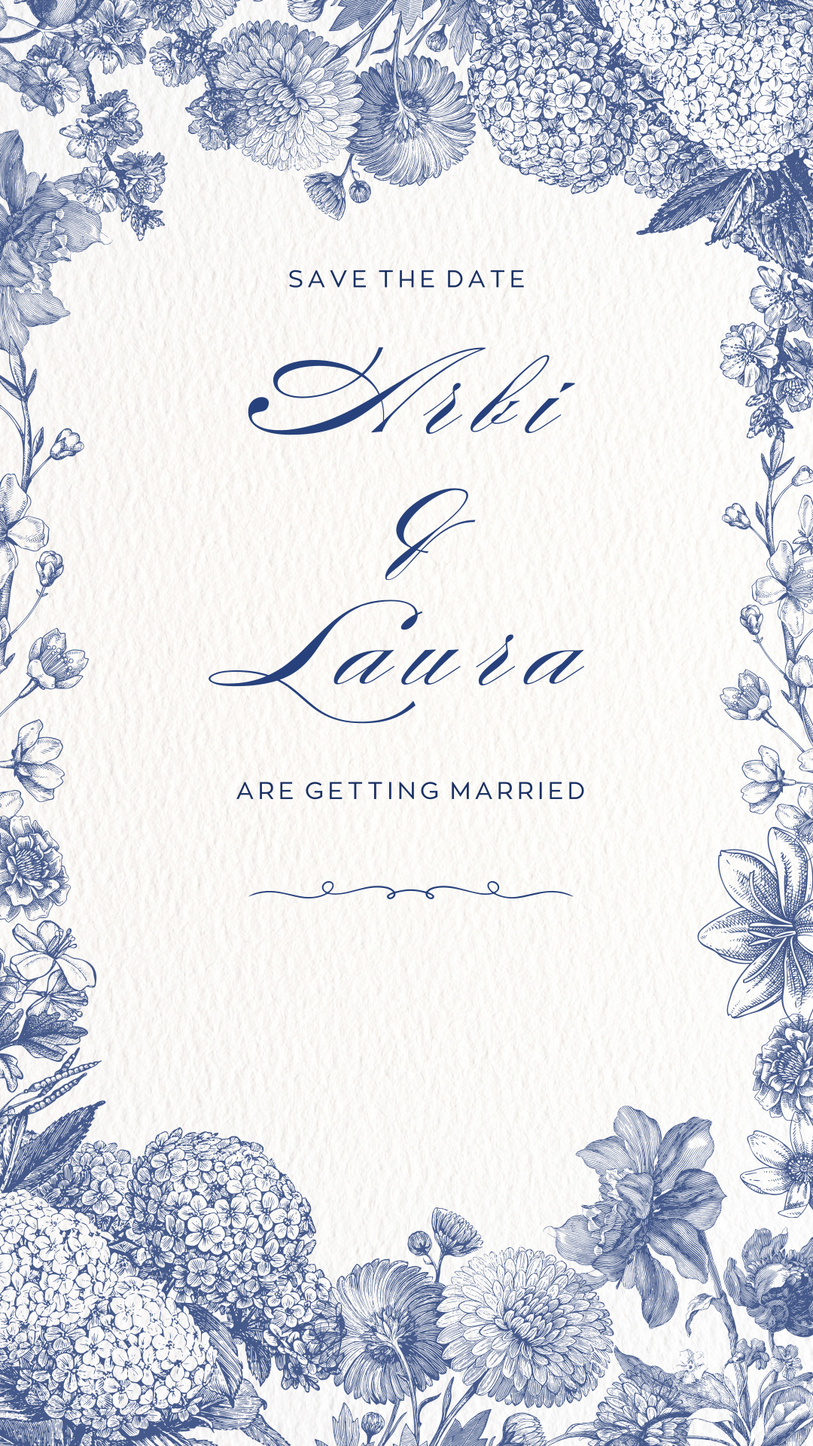
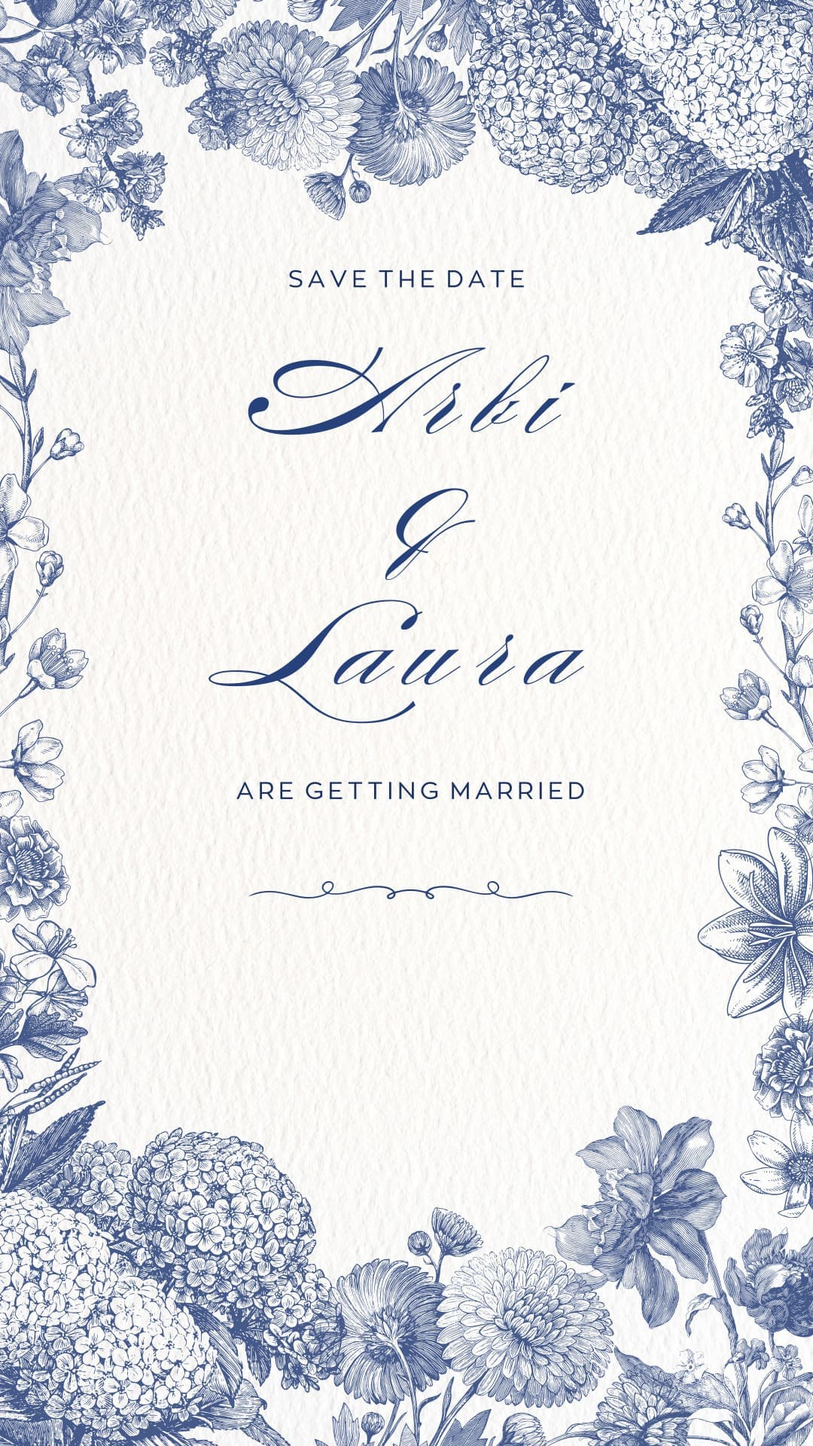
perf: Add image preloading and a loading spinner for the invitation card, update the card image, and remove the old preview.

diff --git a/src/pages/LandingPage.jsx b/src/pages/LandingPage.jsx
@@ -1,50 +1,75 @@
 // src/pages/LandingPage.jsx
 import config from '@/config/config';
 import { formatEventDate } from '@/lib/formatEventDate';
-import { motion } from 'framer-motion';
-import { Calendar, Clock, MailOpen } from 'lucide-react';
+import { useState, useEffect } from 'react';
+import { motion, AnimatePresence } from 'framer-motion';
+import { Calendar, Clock, MailOpen, Loader2 } from 'lucide-react';
 
-const LandingPage = ({ onOpenInvitation }) => (
-  <motion.div
-    initial={{ opacity: 0 }}
-    animate={{ opacity: 1 }}
-    exit={{ opacity: 0 }}
-    className="min-h-screen relative overflow-hidden bg-[url('/images/invitation-card-v2.jpg')] bg-cover bg-center bg-no-repeat"
-  >
-    {/* Main Content */}
-    <div className="relative z-10 min-h-screen flex flex-col items-center justify-end px-4 pb-[25vh]">
+const LandingPage = ({ onOpenInvitation }) => {
+  const [isLoaded, setIsLoaded] = useState(false);
+
+  useEffect(() => {
+    const img = new Image();
+    img.src = '/images/invitation-card-v2.jpg';
+    img.onload = () => setIsLoaded(true);
+  }, []);
+
+  return (
+    <>
+      <AnimatePresence>
+        {!isLoaded && (
+          <motion.div
+            initial={{ opacity: 1 }}
+            exit={{ opacity: 0 }}
+            className="fixed inset-0 z-50 flex items-center justify-center bg-blue-50"
+          >
+            <Loader2 className="w-10 h-10 text-blue-900 animate-spin" />
+          </motion.div>
+        )}
+      </AnimatePresence>
+
       <motion.div
-        initial={{ y: 20, opacity: 0 }}
-        animate={{ y: 0, opacity: 1 }}
-        transition={{ duration: 0.8 }}
-        className="w-full flex justify-center"
+        initial={{ opacity: 0 }}
+        animate={{ opacity: isLoaded ? 1 : 0 }}
+        transition={{ duration: 1 }}
+        className="min-h-screen relative overflow-hidden bg-[url('/images/invitation-card-v2.jpg')] bg-cover bg-center bg-no-repeat"
       >
-        {/* Open Invitation Button */}
-        <motion.button
-          whileHover={{ scale: 1.02, boxShadow: "0 20px 40px -10px rgba(30, 58, 138, 0.15)" }}
-          whileTap={{ scale: 0.98 }}
-          onClick={onOpenInvitation}
-          className="group relative px-8 py-4 bg-white/95 backdrop-blur-xl rounded-full shadow-2xl shadow-blue-900/10 border border-white/60 overflow-hidden"
-        >
-          <div className="absolute inset-0 bg-gradient-to-r from-blue-50/0 via-blue-50/50 to-blue-50/0 translate-x-[-100%] group-hover:translate-x-[100%] transition-transform duration-1000 ease-in-out" />
-
-          <span className="relative z-10 flex items-center gap-4">
-            <span className="font-serif text-lg tracking-wide text-blue-950 group-hover:text-blue-800 transition-colors">
-              Open Invitation
-            </span>
-            <motion.div
-              animate={{ x: [0, 4, 0] }}
-              transition={{ repeat: Infinity, duration: 2, ease: "easeInOut" }}
-              className="bg-blue-50 p-2 rounded-full group-hover:bg-blue-100 transition-colors"
+        {/* Main Content */}
+        <div className="relative z-10 min-h-screen flex flex-col items-center justify-end px-4 pb-[25vh]">
+          <motion.div
+            initial={{ y: 20, opacity: 0 }}
+            animate={{ y: 0, opacity: 1 }}
+            transition={{ duration: 0.8, delay: 0.5 }}
+            className="w-full flex justify-center"
+          >
+            {/* Open Invitation Button */}
+            <motion.button
+              whileHover={{ scale: 1.02, boxShadow: "0 20px 40px -10px rgba(30, 58, 138, 0.15)" }}
+              whileTap={{ scale: 0.98 }}
+              onClick={onOpenInvitation}
+              className="group relative px-8 py-4 bg-white/95 backdrop-blur-xl rounded-full shadow-2xl shadow-blue-900/10 border border-white/60 overflow-hidden"
             >
-              <MailOpen className="w-5 h-5 text-blue-600" />
-            </motion.div>
-          </span>
-        </motion.button>
+              <div className="absolute inset-0 bg-gradient-to-r from-blue-50/0 via-blue-50/50 to-blue-50/0 translate-x-[-100%] group-hover:translate-x-[100%] transition-transform duration-1000 ease-in-out" />
+
+              <span className="relative z-10 flex items-center gap-4">
+                <span className="font-serif text-lg tracking-wide text-blue-950 group-hover:text-blue-800 transition-colors">
+                  Open Invitation
+                </span>
+                <motion.div
+                  animate={{ x: [0, 4, 0] }}
+                  transition={{ repeat: Infinity, duration: 2, ease: "easeInOut" }}
+                  className="bg-blue-50 p-2 rounded-full group-hover:bg-blue-100 transition-colors"
+                >
+                  <MailOpen className="w-5 h-5 text-blue-600" />
+                </motion.div>
+              </span>
+            </motion.button>
+          </motion.div>
+        </div>
       </motion.div>
-    </div>
-  </motion.div>
-);
+    </>
+  );
+};
 
 export default LandingPage;
 

diff --git a/index.html b/index.html
@@ -10,6 +10,7 @@
   </style>
   <title>Arbi & Laura | Wedding Invitation</title>
   <meta name="description" content="Join us for our wedding celebration in Fushë-Krujë! May 16, 2026." />
+  <link rel="preload" as="image" href="/images/invitation-card-v2.jpg">
 
   <!-- Open Graph / Facebook / WhatsApp -->
   <meta property="og:type" content="website" />
